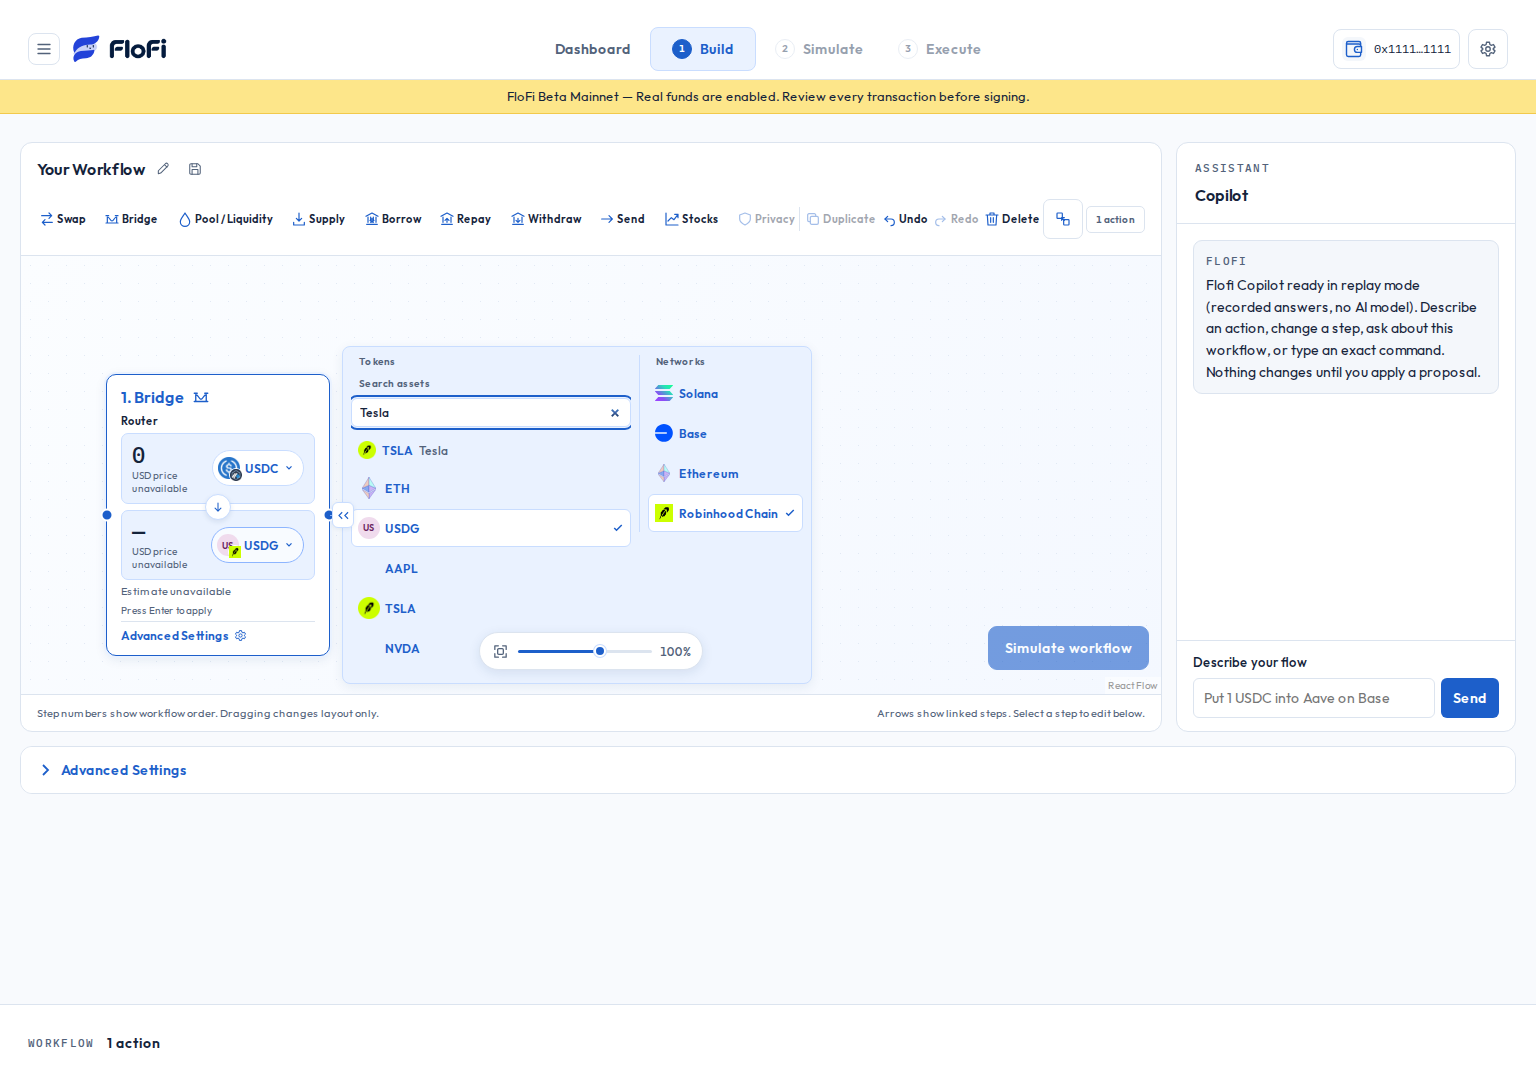
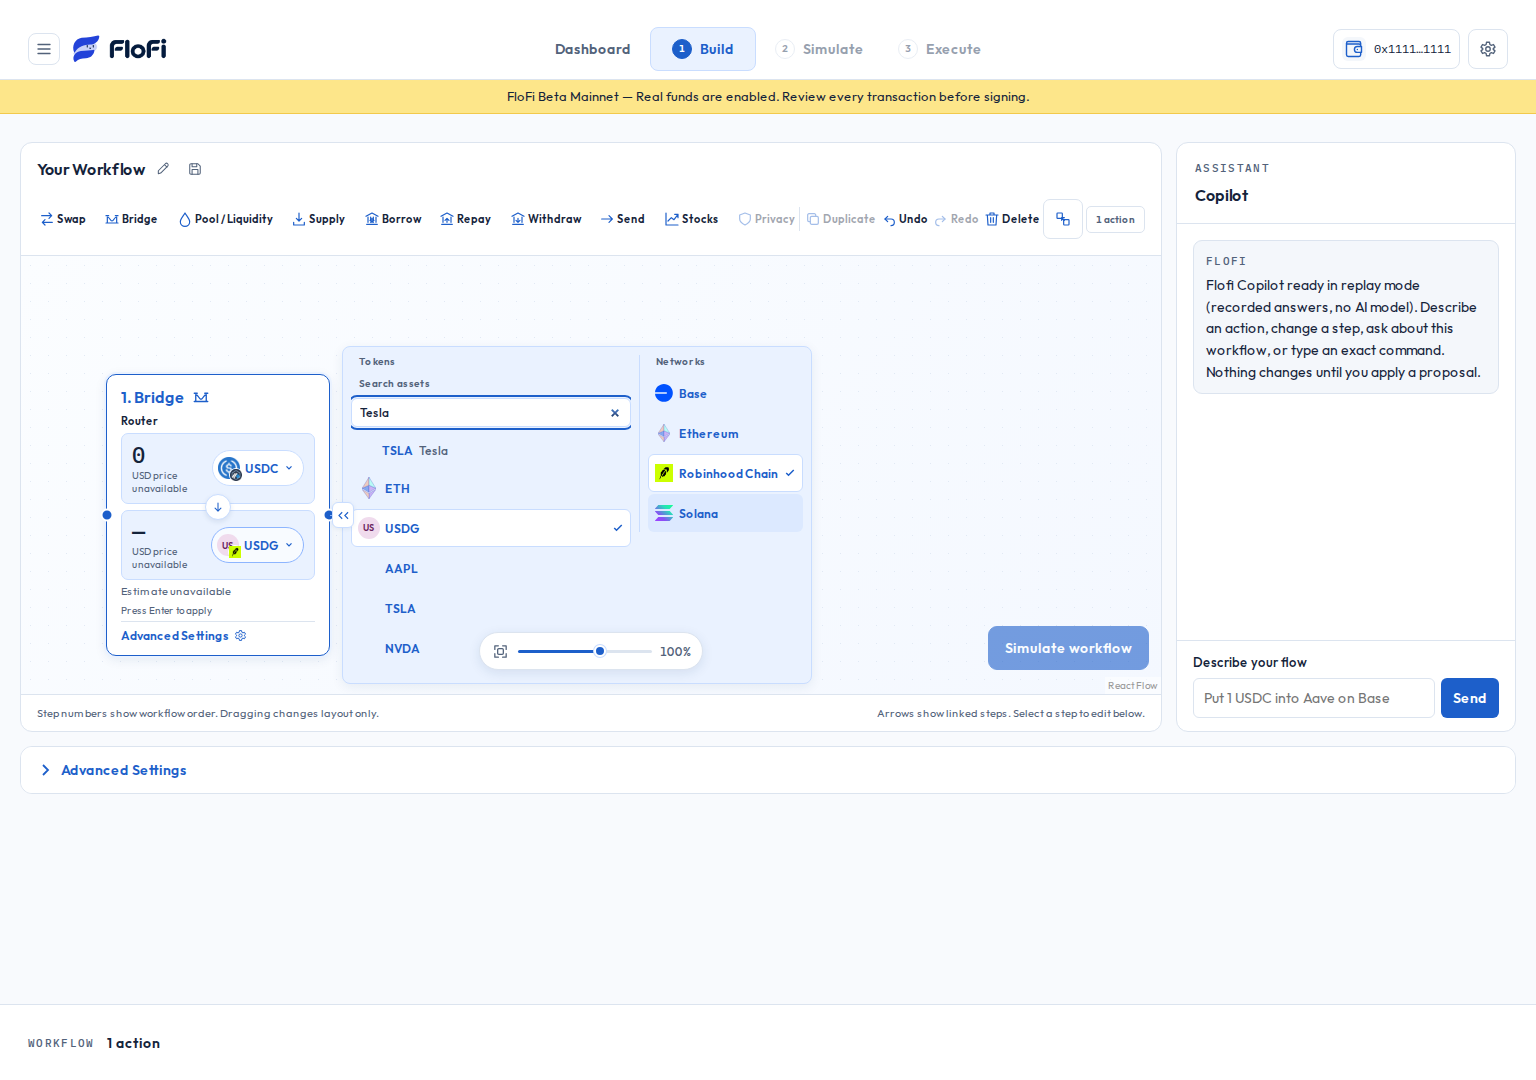
fix: preserve bridge defaults and pending quote snapshots

diff --git a/apps/reference-dapp/src/state/build-estimate.ts b/apps/reference-dapp/src/state/build-estimate.ts
@@ -1,6 +1,6 @@
 // SPDX-License-Identifier: AGPL-3.0-only
 'use client';
-import { useEffect, useRef, useState } from 'react';
+import { useEffect, useMemo, useRef, useState } from 'react';
 import { hashArtifactBytes, type SemanticWorkflow } from '@defi-workflow-engine/workflow-contracts';
 import { requestBuildEstimate, type BuildEstimate, type BuildEstimateResult } from '../domain/build-estimate';
 
@@ -27,9 +27,12 @@ function recalled(scope: string): BuildEstimate | null {
 export function clearLiveQuoteCache(): void { answered.clear(); }
 
 export function useLiveQuote(workflow: SemanticWorkflow | undefined, nodeId: string, owner?: string | null): LiveQuote {
-  const key = workflow ? hashArtifactBytes('semantic-workflow', new TextEncoder().encode(JSON.stringify(workflow))) : null;
+  const serialized = workflow ? JSON.stringify(workflow) : null;
+  // Catalog/layout renders may recreate the preview object. Only changed snapshot contents invalidate its request.
+  const snapshot = useMemo(() => serialized ? JSON.parse(serialized) as SemanticWorkflow : undefined, [serialized]);
+  const key = serialized ? hashArtifactBytes('semantic-workflow', new TextEncoder().encode(serialized)) : null;
   const scope = JSON.stringify([key, nodeId, owner ?? null]);
-  const node = workflow?.nodes.find(node => node.nodeId === nodeId);
+  const node = snapshot?.nodes.find(node => node.nodeId === nodeId);
   const chain = node?.chainId;
   const provider = node?.adapterConstraints.protocols.some(protocol => protocol === 'uniswap' || protocol === 'uniswap-v3') ? 'Uniswap V3'
     : node?.adapterConstraints.protocols.includes('jupiter') ? 'Jupiter'
@@ -39,7 +42,7 @@ export function useLiveQuote(workflow: SemanticWorkflow | undefined, nodeId: str
   const generation = useRef(0);
   const quotable = Boolean(workflow && key && chain && provider);
   useEffect(() => {
-    if (!workflow || !key || !chain || !provider) return;
+    if (!snapshot || !key || !chain || !provider) return;
     const ticket = ++generation.current;
     let expire: ReturnType<typeof setTimeout> | undefined;
     const accept = (estimate: BuildEstimate | null, failed: boolean) => {
@@ -52,7 +55,7 @@ export function useLiveQuote(workflow: SemanticWorkflow | undefined, nodeId: str
     if (known) { accept(known, false); return () => { clearTimeout(expire); }; }
     const cancel = requestBuildEstimate(async signal => {
       const response = await fetch('/api/build-estimate', { method: 'POST', headers: { 'content-type': 'application/json' },
-        body: JSON.stringify({ workflow, nodeId, owner }), signal });
+        body: JSON.stringify({ workflow: snapshot, nodeId, owner }), signal });
       return await response.json() as BuildEstimateResult;
     }, response => {
       const estimate = response.ok && response.estimate.workflowHash === key && response.estimate.nodeId === nodeId && response.estimate.chain === chain && response.estimate.provider === provider && Date.parse(response.estimate.expiresAt) > Date.now() ? response.estimate : null;
@@ -60,7 +63,7 @@ export function useLiveQuote(workflow: SemanticWorkflow | undefined, nodeId: str
       accept(estimate, !estimate);
     });
     return () => { cancel(); clearTimeout(expire); };
-  }, [key, scope, workflow, nodeId, owner, chain, provider]);
+  }, [key, scope, snapshot, nodeId, owner, chain, provider]);
   if (!quotable) return { status: 'idle' };
   if (result?.key !== scope) return { status: 'calculating' };
   return result.estimate ? { status: 'ready', estimate: result.estimate } : result.failed ? { status: 'unavailable' } : { status: 'idle' };

diff --git a/apps/reference-dapp/e2e/workflow-ux-authoring.spec.ts b/apps/reference-dapp/e2e/workflow-ux-authoring.spec.ts
@@ -206,18 +206,24 @@ test.describe('UX-007 fast live quote feedback', () => {
   for (const network of ['Arbitrum One', 'Base'] as const) test(`${network} Swap: calculating at once, one coalesced request, latest amount wins, no Simulate`, async ({ page, networkGuard }) => {
     // Request 2 (amount 10) is answered after request 3 (amount 1000): its late, different answer must never be shown.
     const seen = await replayQuotes(page, index => [{ delayMs: 200, expected: '0.04' }, { delayMs: 700, expected: '9.99' }, { delayMs: 50, expected: '0.4' }][index] ?? { delayMs: 50, expected: '0.4' });
+    await page.clock.install();
     await open(page);
     await page.getByRole('button', { name: 'Add swap', exact: true }).click();
     const card = cards(page).first(); await chooseNetwork(page, card, network);
     const input = card.getByRole('textbox', { name: 'Source amount (USDC)', exact: true });
     const destination = card.getByRole('group', { name: 'Destination amount (unquoted placeholder)', exact: true });
+    // Slow runners must not turn the typing sequence into real pauses beyond the debounce window.
+    await page.clock.pauseAt(await page.evaluate(() => Date.now()) + 1000);
     const t0 = Date.now();
     await input.pressSequentially('100', { delay: 40 });
     await expect(destination).toContainText('Calculating…'); const calculating = Date.now() - t0;
     await expect(card.locator('.composer-quote-note')).toContainText('Calculating estimate…');
+    expect(seen).toHaveLength(0);
+    await page.clock.runFor(200);
+    await page.clock.resume();
     await expect(destination).toContainText('0.04'); const shown = Date.now() - t0;
     expect(seen.map(amountOf)).toEqual(['100000000']); const requested = seen[0]!.at - t0;
-    test.info().annotations.push({ type: 'mocked timing (ms)', description: `${network}: calculating ${calculating}, request ${requested}, estimate ${shown} (200 ms debounce + 200 ms replay delay)` });
+    test.info().annotations.push({ type: 'mocked timing (ms)', description: `${network}: calculating ${calculating}, request ${requested}, estimate ${shown} (controlled 200 ms debounce; 200 ms replay delay)` });
     await expect(card.locator('.composer-quote-note')).toContainText('Approximate · Uniswap V3 · Simulate before review');
     // A newer amount supersedes a slower older answer; the older one never overwrites it.
     await input.fill('10'); await expect(destination).toContainText('Calculating…');

diff --git a/apps/reference-dapp/src/components/workflow-canvas.tsx b/apps/reference-dapp/src/components/workflow-canvas.tsx
@@ -491,9 +491,11 @@ function BuildCanvas({ environment, selectedId, select, openSettings, workflowNa
     const bridgeSelection = (id: string, networks: CanvasBridgeNetworks, universalAllowed = false) => {
       const network = environment === 'mainnet' || environment === 'testnet' ? environment : null;
       const universal = universalAllowed && network === 'mainnet';
+      // Keep the established EVM fallback (Base first) when a source change invalidates its destination. Solana remains independently selectable.
+      const mainnets = [...Object.values(UNIVERSAL_CANVAS_LABEL).filter(label => label !== 'Solana'), 'Solana'];
       const choices = network ? routerChainChoices(network, networks.source) : null;
-      const sources = universal ? Object.values(UNIVERSAL_CANVAS_LABEL) : choices?.sources ?? [];
-      const destinations = (universal ? Object.values(UNIVERSAL_CANVAS_LABEL).filter(label => label !== networks.source) : choices?.destinations ?? []) as CanvasBridgeNetworks['destination'][];
+      const sources = universal ? mainnets : choices?.sources ?? [];
+      const destinations = (universal ? mainnets.filter(label => label !== networks.source) : choices?.destinations ?? []) as CanvasBridgeNetworks['destination'][];
       const routed = routerNetworkOfInput(networks);
       return {
         source: sources, destination: destinations,
@@ -504,7 +506,7 @@ function BuildCanvas({ environment, selectedId, select, openSettings, workflowNa
           if (side === 'source') {
             const source = sources.find(candidate => candidate === selected);
             if (!source) return;
-            const next = universal ? Object.values(UNIVERSAL_CANVAS_LABEL).filter(label => label !== source) as CanvasBridgeNetworks['destination'][]
+            const next = universal ? mainnets.filter(label => label !== source) as CanvasBridgeNetworks['destination'][]
               : routerChainChoices(network, source).destinations;
             editBridgeNetworks(id, { source: source as CanvasBridgeNetworks['source'], ...next.includes(networks.destination) && networks.destination !== (source as string) ? {} : { destination: next[0]! } });
           } else {

diff --git a/apps/reference-dapp/src/state/build-estimate.test.ts b/apps/reference-dapp/src/state/build-estimate.test.ts
@@ -58,6 +58,22 @@ describe('Build estimate snapshot, freshness and provider binding', () => {
 });
 
 describe('UX-007 fast live quote feedback', () => {
+  it('keeps an in-flight quote when catalog rerenders recreate the same workflow snapshot', async () => {
+    let workflow = authored('100');
+    const pending = deferred<ReturnType<typeof response>>();
+    transport.mockReturnValue(pending.promise);
+    const read = () => host.render(() => useLiveQuote(workflow, 'node-002', 'owner'));
+    read(); await vi.advanceTimersByTimeAsync(LIVE_QUOTE_DEBOUNCE_MS);
+    expect(transport).toHaveBeenCalledOnce();
+    workflow = JSON.parse(JSON.stringify(workflow));
+    expect(read().status).toBe('calculating');
+    expect(transport.mock.calls[0]![1].signal.aborted).toBe(false);
+    await vi.advanceTimersByTimeAsync(LIVE_QUOTE_DEBOUNCE_MS);
+    expect(transport).toHaveBeenCalledOnce();
+    pending.resolve(response({ ok: true, estimate: estimate(workflow) }));
+    await vi.advanceTimersByTimeAsync(0);
+    expect(read().status).toBe('ready');
+  });
   it('shows calculating at once, asks once after the short debounce, then shows this exact amount', async () => {
     const workflow = authored('5'), value = estimate(workflow); let release!: (v: unknown) => void;
     transport.mockReturnValue(new Promise(resolve => { release = resolve; }));

diff --git a/docs/builds/FIX-BRIDGE-CATALOG-CANCEL-001/REPORT.md b/docs/builds/FIX-BRIDGE-CATALOG-CANCEL-001/REPORT.md
@@ -8,6 +8,8 @@ The visual Bridge card received no token-selection model, so `composer-card.tsx`
 
 The existing card now offers independent source/destination catalog searches, the existing token logos/selection indicators and network icons, with Tokens and Networks beside each other. Search stays at the top of a bounded, scrolling token column. All five mainnets are offered. EVM uses the existing official catalogs and `AssetSearch`, with metadata reads independent of swap execution gates. No EVM integration was rebuilt.
 
+The preserved follow-up restores the established Base-first EVM fallback when a source change makes the destination invalid, while keeping Solana independently selectable. The broader authoring regressions also exposed identical build-quote requests restarting when catalog updates recreated an equivalent workflow object. The quote hook now stabilizes its snapshot by serialized contents; changed assets, amounts, networks, nodes or wallets still invalidate it, and the existing freshness and stale-response checks remain intact. A regression test reproduced the unwanted abort before the fix and passes afterward. The typing test controls its debounce clock without changing product timing.
+
 `universalCanvasPair` preserves each exact certified legacy asset route. Other valid mainnet network/asset pairs author Universal Router nodes. Changes to an existing legacy adapter require a visible proposal; applying it creates a new workflow revision/hash and requires fresh simulation/financial Review. Existing workflows, signatures, execution journals and previously authorized runs are not migrated. Existing Universal Router edits retain that adapter, including when selecting a stablecoin again.
 
 Selected catalog tokens carry address/mint and decimals, scoped to their source or destination chain. Canonical asset references remain explicit when a node is reopened, including after metadata reload. On-chain contract/mint checks and the existing simulation/Review are unchanged. Catalog membership supplies no liquidity, price or route claim.
@@ -20,7 +22,8 @@ The workflow panel exposed End workflow only for HALTED. Cancellation also exemp
 
 ## Evidence and validation
 
-- Unit/TypeScript/lint/schema/production build: `pnpm check` passed, 5,043 tests passed, 2 existing conditional skips; 11 schema exports checked. Final follow-up: TypeScript, lint and production build passed; 64 focused tests passed after the layout/proposal follow-up. The full final Canvas profile passed 8/8, including both new picker tests.
+- Initial implementation (`af91f4e`): `pnpm check` passed, 5,043 tests passed, 2 existing conditional skips; 11 schema exports checked. TypeScript, lint and production build passed; 64 focused tests and the full Canvas profile (8/8) passed after the layout/proposal follow-up.
+- Recovery follow-up: production build with TypeScript passed; 23 focused quote tests passed, including the new identical-snapshot regression. All 63 tests passed across the Robinhood (4), Base (4), Arbitrum (18), Ethereum (18), workflow UX (11) and Canvas (8) authoring profiles. Local checks ran serially with one build worker, bounded Node heaps and a memory guard. Completed catalog/route and PostgreSQL work was retained rather than repeated. Exact-head CircleCI results are linked in the PR.
 - Full PostgreSQL suite: 485 passed, 3 existing conditional skips, 78 suites passed; disposable loopback databases only. Includes eligible states, wallet mismatch/missing proofs, concurrent cancels, cancellation versus loading, HALTED in-flight refusal and preserved partial completion. Existing confirm/delegated workflows passed.
 - Governance-lite and 56 CI orchestration self-tests passed.
 - Live metadata: [catalogs-mainnet.json](catalogs-mainnet.json). Ethereum **477**, Base **195**, Arbitrum One **225**, Robinhood Chain **198**, Solana **4,038** validated assets at the recorded observation time. Payload SHA-256/source provenance and canonical Arbitrum WETH → Robinhood ETH references are included. These are real sources, not fixture asset counts.
@@ -44,5 +47,5 @@ Before screenshots come from an isolated production build of the baseline. After
 - Metadata providers can fail or rate limit. The picker exposes loading/unavailable/retry rather than substituting an old or imaginary catalog. Jupiter entries missing safe display metadata and reviewed Ethereum ambiguities are intentionally excluded.
 - An already loaded AWAITING_OWNER step is conservatively treated as potentially in flight, even before FloFi observes a submission. End workflow stays unavailable until the existing observation/reconciliation path establishes a safe state.
 - Full end-to-end acceptance with an independent real ChatGPT account and funded wallets was not performed; it would require financial signatures forbidden by this task. Chat remains the primary execution path; Canvas is optional.
-- No merge, manual deployment/promotion, production environment change or real financial authorization/signature/submission was performed. Vercel Preview and CircleCI are inspected through the branch's existing PR integrations. Production rollout is reserved for owner approval.
+- No merge, manual deployment/promotion, production environment change or real financial authorization/signature/submission was performed. The existing Vercel Preview passed for `af91f4e` and requires Vercel SSO. Following the resumed instruction not to deploy, automatic Vercel deployments are disabled for this fix branch only; the corrected follow-up is not Preview-deployed. Production settings are unchanged. CircleCI certification continues through the existing PR integration; deployment remains reserved for owner approval.
 - The 100 bps default slippage and 0.1% fee model are unchanged. PT/EN is preserved. `pnpm-workspace.yaml`, dependency release-age exceptions (including `fast-uri@3.1.9`), lockfile and dependency versions are unchanged.
